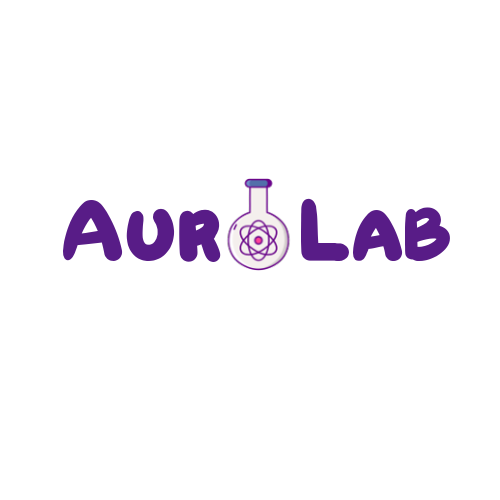
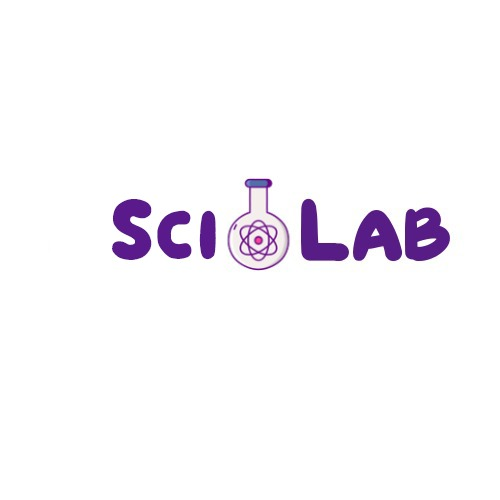
name changes

Changed region(s): [[0.12, 0.39, 0.45, 0.54], [0.48, 0.45, 0.54, 0.54], [0.48, 0.39, 0.51, 0.42]]

diff --git a/components/head/index.js b/components/head/index.js
@@ -3,11 +3,11 @@ import Head from 'next/head'
 export const MainHead = () => {
     return (
         <Head>
-            <title>AurLab || Biggest online research lab.</title>
+            <title>SciLab || Biggest online research lab.</title>
             <link rel="icon" href="/favicon.ico" />
             <meta name="title" content="aurlab.vercel.app" />
             <meta name="description" content="Connect million researcher to make you eaiser research life." />
-            <meta name="keywords" content="aurlab research researc-lab science IT" />
+            <meta name="keywords" content="SciLab research researc-lab science IT" />
             <meta name="robots" content="index, follow" />
             <meta httpEquiv="Content-Type" content="text/html; charset=utf-8" />
             <meta name="language" content="English" />

diff --git a/pages/about/index.js b/pages/about/index.js
@@ -10,7 +10,7 @@ const Index = () => {
 
       <div className="container mx-auto">
         <div className="grid grid-cols-1 py-8">
-          <Text className="text-xl font-bold mb-4">About AurLab</Text>
+          <Text className="text-xl font-bold mb-4">About SciLab</Text>
           <Text>
             A research lab, also known as a laboratory or research facility, is
             a specialized space where scientists, researchers, and scholars
